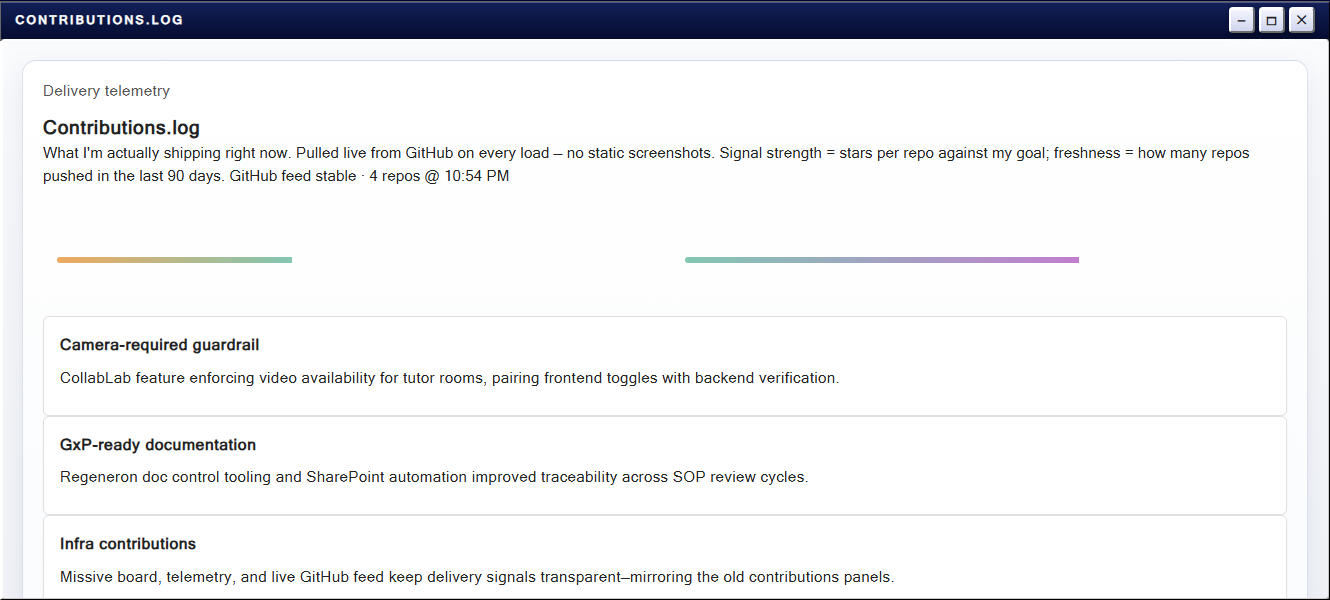
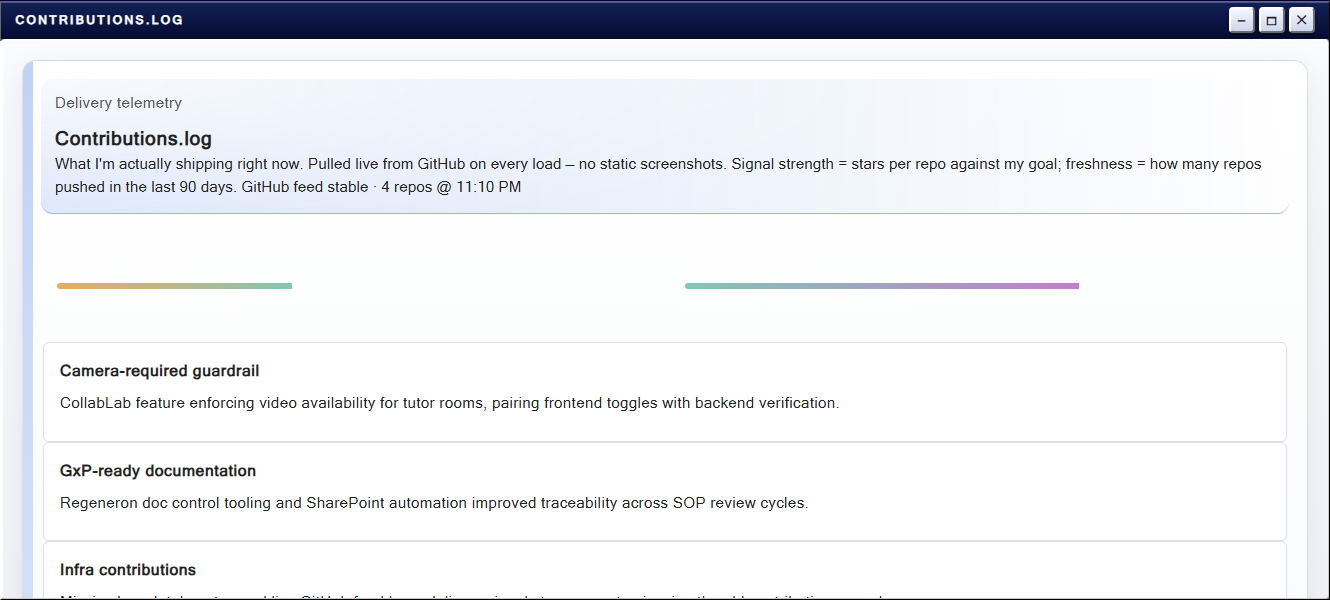
resume PDF viewer + bigger GitHub widget + per-app window accents
- Resume app now embeds the actual resume PDF (object viewer) with a fallback
  link + existing download button.
- Desktop GitHub contributions widget widened to improve legibility while
  keeping the chart image aspect ratio.
- Add per-app accent styling via window data-app to make app panels feel less
  uniform (accent stripe + tinted intro header).

Made-with: Cursor

Changed region(s): [[0.0, 0.09, 0.9556, 1.0], [0.5241, 0.42, 0.8323, 0.48]]

diff --git a/src/styles.css b/src/styles.css
@@ -1164,7 +1164,7 @@ small {
 
 /* GitHub chart card — wide enough that each contribution cell is legible */
 .desktop-widget-github {
-  width: min(420px, 94vw);
+  width: min(560px, 96vw);
   padding: 0.65rem 0.8rem 0.7rem;
 }
 
@@ -1851,6 +1851,7 @@ small {
 }
 
 .window-content article.app-panel-frame {
+  --app-accent: #245ed9;
   background: linear-gradient(180deg, #ffffff 0%, #f3f6fb 100%);
   border-radius: 14px;
   border: 1px solid rgba(12, 46, 122, 0.14);
@@ -1858,10 +1859,47 @@ small {
     0 12px 32px rgba(12, 40, 90, 0.09),
     inset 0 1px 0 rgba(255, 255, 255, 0.98);
   padding: 1.15rem 1.25rem;
+  position: relative;
+  overflow: hidden;
+}
+
+.window-content[data-app="about"] { --app-accent: #1b63d8; }
+.window-content[data-app="resume"] { --app-accent: #b46716; }
+.window-content[data-app="projects"] { --app-accent: #2471b6; }
+.window-content[data-app="experience"] { --app-accent: #7b4a1d; }
+.window-content[data-app="skills"] { --app-accent: #c37b00; }
+.window-content[data-app="contributions"] { --app-accent: #2a8a2e; }
+.window-content[data-app="power"] { --app-accent: #b21c1c; }
+.window-content[data-app="leetcode"] { --app-accent: #ffa116; }
+.window-content[data-app="contact"] { --app-accent: #c91d1d; }
+.window-content[data-app="chatbot"] { --app-accent: #0e6e7a; }
+.window-content[data-app="help"] { --app-accent: #1d4baf; }
+
+.window-content article.app-panel-frame::before {
+  content: "";
+  position: absolute;
+  left: 0;
+  top: 0;
+  bottom: 0;
+  width: 10px;
+  background: linear-gradient(180deg, var(--app-accent), rgba(255, 255, 255, 0));
+  opacity: 0.28;
+  pointer-events: none;
 }
 
 .app-window-intro {
   margin: 0 0 0.85rem;
+  padding-bottom: 0.85rem;
+  border-bottom: 1px solid rgba(0, 0, 0, 0.08);
+  background:
+    radial-gradient(800px 140px at 0% 0%, rgba(255, 255, 255, 0.75), rgba(255, 255, 255, 0)),
+    linear-gradient(90deg, rgba(36, 94, 217, 0.06), rgba(36, 94, 217, 0));
+  border-radius: 12px;
+  padding-left: 0.9rem;
+  padding-right: 0.9rem;
+  padding-top: 0.7rem;
+  margin-left: -0.15rem;
+  margin-right: -0.15rem;
 }
 
 .app-window-intro h2 {
@@ -1873,6 +1911,13 @@ small {
   font-size: 0.92rem;
   line-height: 1.5;
   color: #3a4556;
+}
+
+.window-content[data-app] .app-window-intro {
+  background:
+    radial-gradient(820px 160px at 0% 0%, rgba(255, 255, 255, 0.78), rgba(255, 255, 255, 0)),
+    linear-gradient(90deg, color-mix(in srgb, var(--app-accent) 16%, transparent), transparent);
+  border-bottom-color: color-mix(in srgb, var(--app-accent) 35%, rgba(0, 0, 0, 0.08));
 }
 
 .contact-card-grid {
@@ -3418,6 +3463,22 @@ select:focus-visible {
   display: grid;
   grid-template-columns: repeat(auto-fit, minmax(280px, 1fr));
   gap: 1rem;
+}
+
+.resume-pdf-viewer {
+  border-radius: 10px;
+  background: #ffffff;
+  border: 1px solid #d0d0d0;
+  box-shadow: 0 2px 10px rgba(0, 0, 0, 0.06);
+  overflow: hidden;
+}
+
+.resume-pdf-object {
+  width: 100%;
+  height: min(72vh, 980px);
+  border: 0;
+  display: block;
+  background: #ffffff;
 }
 
 .resume-section-card {

diff --git a/src/App.tsx b/src/App.tsx
@@ -1036,21 +1036,24 @@ function WindowContent({
               Download PDF
             </a>
           </div>
-          <p className="resume-window-subtitle">Same source of truth as the PDF — pulled directly from it. Use the button to download a print-ready copy.</p>
+          <p className="resume-window-subtitle">
+            Built-in PDF viewer. If it doesn’t render in your browser, use the download button.
+          </p>
         </header>
-        <div className="resume-layout">
-          {resumeSections.map((section) => (
-            <section key={`resume-${section.title}`} className="resume-section-card">
-              <h3 className="resume-section-title">{section.title}</h3>
-              {section.summary && <p className="resume-section-summary">{section.summary}</p>}
-              <ul className="resume-section-list">
-                {section.bullets.map((bullet) => (
-                  <li key={`${section.title}-${bullet}`}>{bullet}</li>
-                ))}
-              </ul>
-              {section.footer && <p className="resume-section-footer">{section.footer}</p>}
-            </section>
-          ))}
+        <div className="resume-pdf-viewer">
+          <object
+            data={`${BASE}assets/resume.pdf`}
+            type="application/pdf"
+            className="resume-pdf-object"
+            aria-label="Resume PDF viewer"
+          >
+            <p className="muted">
+              PDF preview not supported in this browser.{' '}
+              <a href={`${BASE}assets/resume.pdf`} target="_blank" rel="noreferrer">
+                Open the PDF ↗
+              </a>
+            </p>
+          </object>
         </div>
       </article>
     );

diff --git a/src/components/widgets/DesktopGitHubWidget.tsx b/src/components/widgets/DesktopGitHubWidget.tsx
@@ -12,8 +12,8 @@ export function DesktopGitHubWidget() {
             src={chartUrl}
             alt={`${username} GitHub contribution chart`}
             className="desktop-widget-chart"
-            width={720}
-            height={112}
+            width={920}
+            height={143}
             loading="lazy"
           />
         </div>
